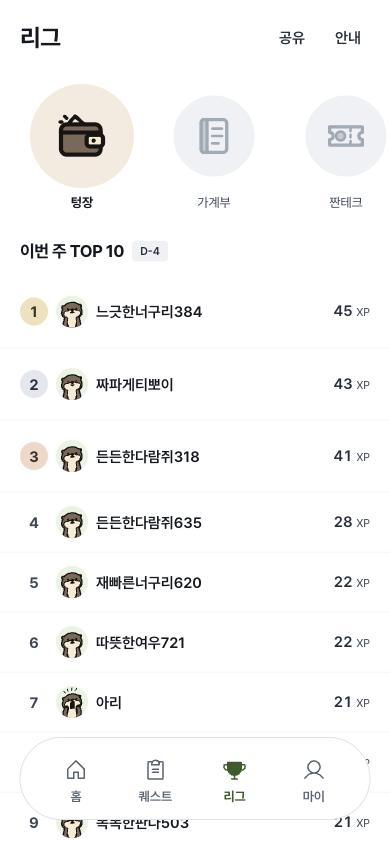
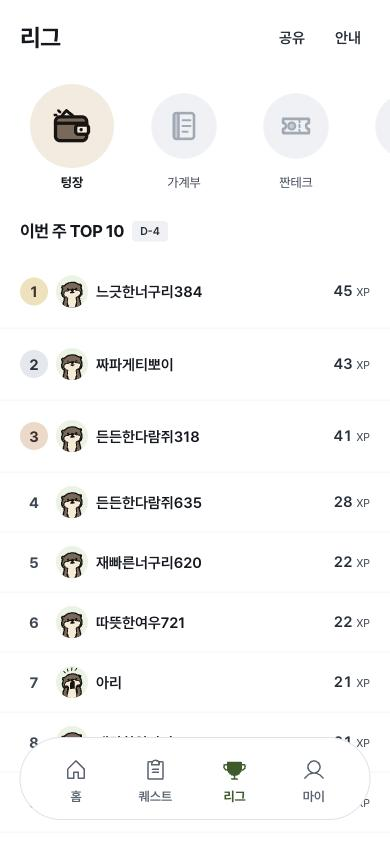
리그 등급 원 104에서 84px, 아이콘 56에서 44px, 칸 124에서 104px로 축소

diff --git a/src/index.css b/src/index.css
@@ -1196,8 +1196,8 @@ button.course-step-marker { cursor: pointer; }
 .league-tier-road { position: relative; display: flex; gap: var(--space-2); margin: 0; padding: var(--space-5) var(--space-2) var(--space-4); overflow-x: auto; border-radius: var(--shape-card); background: var(--color-card); box-shadow: var(--shadow-card); list-style: none; scroll-snap-type: x mandatory; scroll-padding-inline: var(--space-5); scrollbar-width: none; }
 .league-time-left { padding: 2px var(--space-2); border-radius: var(--shape-sm); background: var(--color-neutral-soft); color: var(--color-ink-2); font-size: var(--font-size-caption); font-weight: var(--font-weight-semibold); font-variant-numeric: tabular-nums; }
 .league-tier-road::-webkit-scrollbar { display: none; }
-.league-tier-step { position: relative; z-index: 1; display: flex; width: 124px; flex-shrink: 0; flex-direction: column; align-items: center; gap: var(--space-1); scroll-snap-align: center; }
-.league-tier-node { display: flex; width: 104px; height: 104px; align-items: center; justify-content: center; border-radius: 50%; }
+.league-tier-step { position: relative; z-index: 1; display: flex; width: 104px; flex-shrink: 0; flex-direction: column; align-items: center; gap: var(--space-1); scroll-snap-align: center; }
+.league-tier-node { display: flex; width: 84px; height: 84px; align-items: center; justify-content: center; border-radius: 50%; }
 /* 현재 등급만 원래 크기, 나머지는 조금 작게(칸 폭은 그대로라 넘기는 위치가 흔들리지 않는다) */
 .league-tier-step { justify-content: center; }
 .league-tier-step:not([data-state='current']) .league-tier-node { transform: scale(0.78); }

diff --git a/src/pages/LeagueScreen.tsx b/src/pages/LeagueScreen.tsx
@@ -69,13 +69,13 @@ const LeagueScreen = () => {
           </div>
         </div>
 
-        {/* 티어 로드맵: 테두리·선 없이 등급 아이콘(원 안 56px)과 이름을 가로로 넘기고 처음에 현재 등급을 가운데로 둔다. 규칙 설명은 안내 시트(LeagueRules)에만 둔다 */}
+        {/* 티어 로드맵: 테두리·선 없이 등급 아이콘(84px 원 안 44px)과 이름을 가로로 넘기고 처음에 현재 등급을 가운데로 둔다. 규칙 설명은 안내 시트(LeagueRules)에만 둔다 */}
         <ol ref={roadRef} className="league-tier-road anim-fade-up" aria-label="등급 단계" style={{ '--i': 1 } as React.CSSProperties}>
           {GROWTH_STAGES.map(s => {
             const state = s.id < stage.id ? 'done' : s.id === stage.id ? 'current' : 'future';
             return (
               <li key={s.id} className="league-tier-step" data-state={state} aria-label={s.name} aria-current={state === 'current' ? 'step' : undefined}>
-                <span className="league-tier-node" style={{ background: state === 'future' ? 'var(--color-neutral-soft)' : `var(--league-bg-${s.id})` }}><StageIcon id={s.id} size={56} locked={state === 'future'} /></span>
+                <span className="league-tier-node" style={{ background: state === 'future' ? 'var(--color-neutral-soft)' : `var(--league-bg-${s.id})` }}><StageIcon id={s.id} size={44} locked={state === 'future'} /></span>
                 <span className="league-tier-name" aria-hidden="true">{s.name}</span>
               </li>
             );

diff --git a/DESIGN.md b/DESIGN.md
@@ -242,7 +242,7 @@
 ### 리그 (`/league`)
 
 - 내 순위 카드와 승급 조건 문구는 두지 않는다. 규칙 설명(주간 순위·승급·강등·티어·XP)은 "안내" 시트(`LeagueRules`)에만 쓴다. 남은 기간은 TOP 10 제목 바로 옆 회색 뱃지 "D-n"(하루 안이면 "n시간 남음"). 등급 그림은 지나온·현재 등급만 등급 색 원, 아직 못 간 등급은 회색 원. 내가 10위 밖이면 목록 맨 아래에 내 행을 붙인다.
-- 등급 단계: 테두리·트랙 없이 104px 원 안 56px 등급 사물 아이콘(`public/league/icons`) 열 개를 가로로 넘긴다(칸 124px, 다음 칸이 살짝 보이게, 처음엔 현재 등급을 가운데로). 아이콘 아래 등급 이름(13px, 현재 등급만 진한 굵은 글자, 나머지 회색). 지금과 지난 등급은 색 그림, 아직 못 간 등급은 회색 잠김본. 아래 한 줄로 승급 조건("이번 주 3위 안에 들면 다음 주 ○○ 리그로 올라가요", 지금 3위 안이면 "지금 순위를 지키면…").
+- 등급 단계: 테두리·트랙 없이 84px 원 안 44px 등급 사물 아이콘(`public/league/icons`) 열 개를 가로로 넘긴다(칸 104px, 다음 칸이 살짝 보이게, 처음엔 현재 등급을 가운데로). 아이콘 아래 등급 이름(13px, 현재 등급만 진한 굵은 글자, 나머지 회색). 지금과 지난 등급은 색 그림, 아직 못 간 등급은 회색 잠김본. 아래 한 줄로 승급 조건("이번 주 3위 안에 들면 다음 주 ○○ 리그로 올라가요", 지금 3위 안이면 "지금 순위를 지키면…").
 - TOP 10: 순위 목록 하나만 둔다(시상대는 같은 1~3위를 반복해서 뺐다). 1~3위는 금·은·동 원형 바탕 숫자, 내 행은 옅은 회색 면.
 
 ### 마이 (`/my`)
